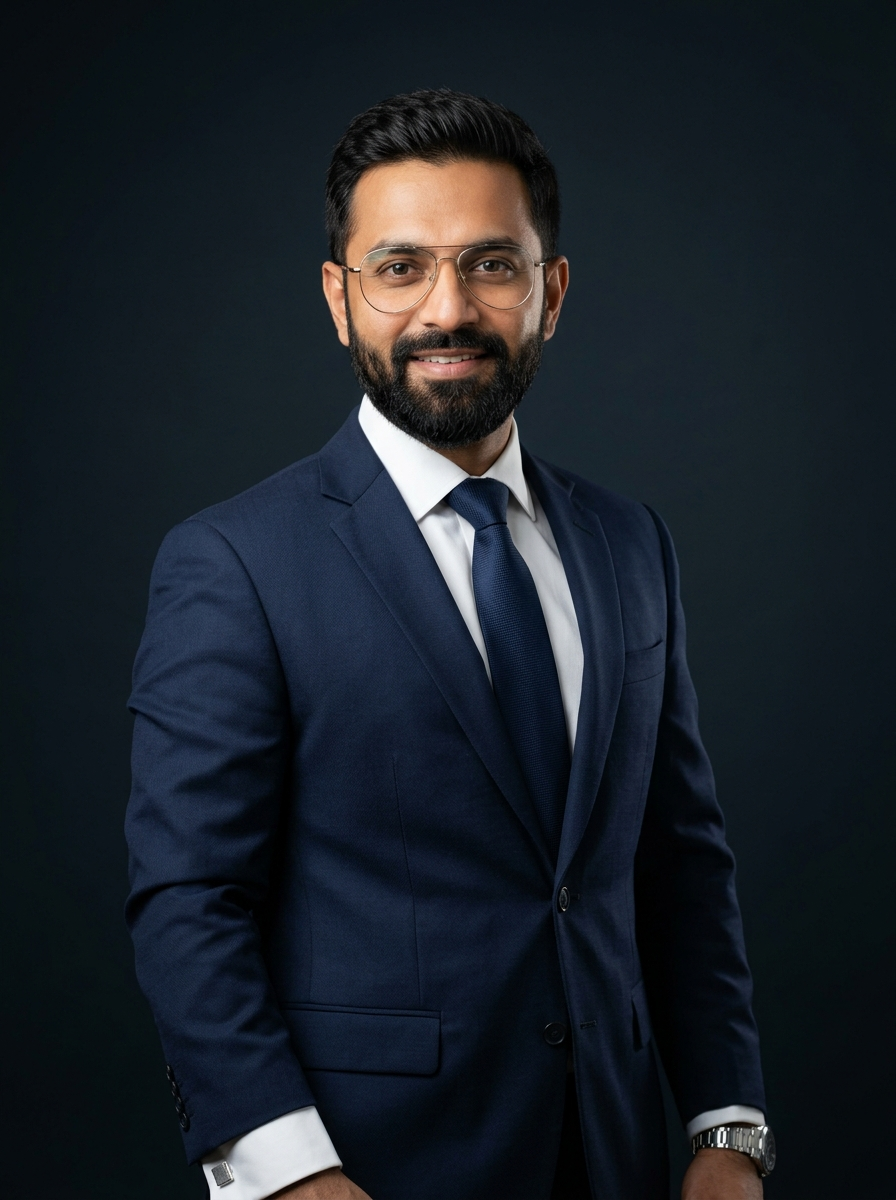
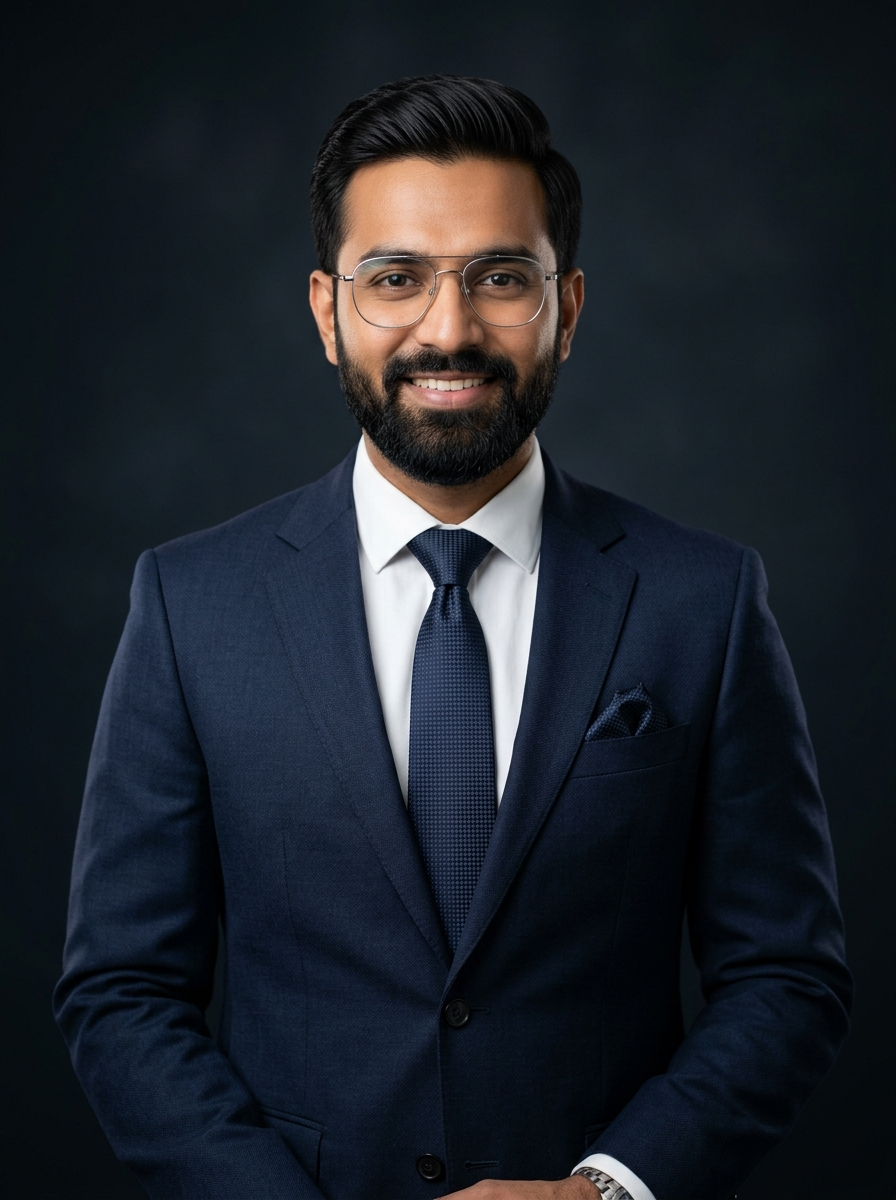
refactor: update profile image and remove upload feature
Updated the primary profile image asset and removed the experimental local file upload UI components from the hero section to streamline the interface.

diff --git a/index.html b/index.html
@@ -305,24 +305,10 @@
                 src="./profile.jpg"
                 alt="Gulam Ahmed Raza - Technical Project Manager"
                 class="w-[90%] sm:w-[86%] h-auto object-cover object-top filter contrast-[1.03] brightness-[1.0] transition-transform duration-700 hover:scale-[1.02] translate-y-2 sm:translate-y-4"
-                onerror="this.src='./src/assets/images/profile_cutout_clean_1791318029903.jpg'"
+                onerror="this.src='./src/assets/images/profile_preview_actual_1791434709383.jpg'"
               />
               <!-- Subtle blend gradient at bottom of circular cut -->
               <div class="absolute inset-x-0 bottom-0 h-24 bg-gradient-to-t from-[#110e0b] via-[#110e0b]/60 to-transparent pointer-events-none"></div>
-            </div>
-
-            <!-- Custom Photo File Picker -->
-            <div class="absolute -bottom-2 right-4 z-20 opacity-80 hover:opacity-100 transition-opacity">
-              <label class="cursor-pointer flex items-center gap-1.5 px-3 py-1.5 bg-[#17120d]/90 backdrop-blur border border-[#4d3626] rounded-full text-[11px] text-[#ff6b00] hover:text-white shadow-lg">
-                <i class="fa-solid fa-camera text-[10px]"></i>
-                <span>Custom Photo</span>
-                <input
-                  type="file"
-                  accept="image/*"
-                  onchange="handleCustomPhotoUpload(event)"
-                  class="hidden"
-                />
-              </label>
             </div>
           </div>
         </div>
@@ -1506,18 +1492,6 @@
           }, 2000);
         }
       });
-    }
-
-    function handleCustomPhotoUpload(e) {
-      const file = e.target.files && e.target.files[0];
-      if (file) {
-        const reader = new FileReader();
-        reader.onload = function(evt) {
-          const img = document.getElementById('hero-profile-img');
-          if (img) img.src = evt.target.result;
-        };
-        reader.readAsDataURL(file);
-      }
     }
 
     function handleContactSubmit(e) {

diff --git a/src/App.tsx b/src/App.tsx
@@ -1,5 +1,5 @@
 import React, { useState, useEffect } from 'react';
-import profileCutoutImg from './assets/images/profile_cutout_clean_1791318029903.jpg';
+import profileCutoutImg from './assets/images/profile_preview_actual_1791434709383.jpg';
 import { getFullStandaloneHtml } from './standaloneHtml.ts';
 
 interface WorkExpItem {
@@ -464,20 +464,6 @@ export default function App() {
                   />
                   {/* Subtle blend gradient at bottom of circular cut */}
                   <div className="absolute inset-x-0 bottom-0 h-24 bg-gradient-to-t from-[#110e0b] via-[#110e0b]/60 to-transparent pointer-events-none"></div>
-                </div>
-
-                {/* Quick Photo Customizer Action */}
-                <div className="absolute -bottom-2 right-4 z-20 opacity-80 hover:opacity-100 transition-opacity">
-                  <label className="cursor-pointer flex items-center gap-1.5 px-3 py-1.5 bg-[#17120d]/90 backdrop-blur border border-[#4d3626] rounded-full text-[11px] text-[#ff6b00] hover:text-white shadow-lg">
-                    <i className="fa-solid fa-camera text-[10px]"></i>
-                    <span>Select Photo</span>
-                    <input
-                      type="file"
-                      accept="image/*"
-                      onChange={handleImageUpload}
-                      className="hidden"
-                    />
-                  </label>
                 </div>
               </div>
             </div>

diff --git a/src/standaloneHtml.ts b/src/standaloneHtml.ts
@@ -168,8 +168,8 @@ export const getFullStandaloneHtml = (): string => {
             <!-- Cutout Profile Container -->
             <div class="relative z-10 w-full h-full flex items-end justify-center overflow-hidden rounded-full">
               <img
-                src="portrait.png"
-                alt="Gulam Ahmed Raza"
+                src="./profile.jpg"
+                alt="Gulam Ahmed Raza - Technical Project Manager"
                 class="w-[88%] h-auto object-cover object-top filter contrast-[1.03] translate-y-3"
               />
             </div>
